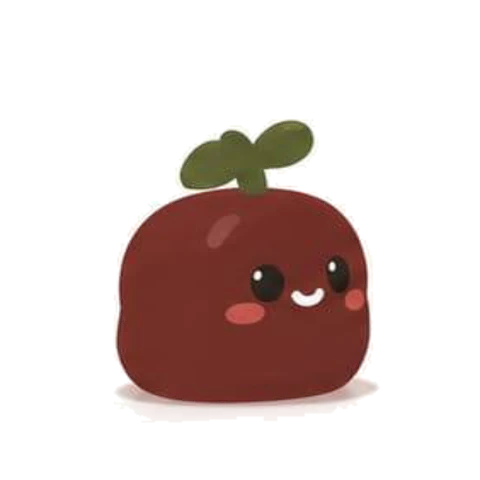
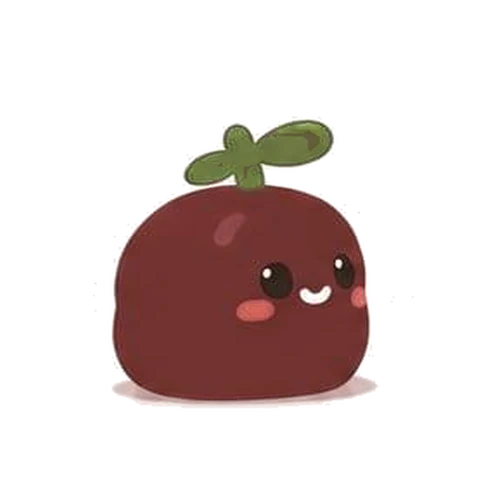
Blocky blinks and glances in his true colours, and eases out of a glance
- New blink and glance frames from the recoloured artwork, keyed off their
  white backgrounds, fitted onto the standing pose's body and colour-matched
  to it (body and leaf separately; eyes, mouth and cheeks as drawn).
- Every pose cleaned of the white it was cut from, so dark mode has no white
  halo or ground plate. Over white they're unchanged (within 1/255).
- Glances crossfade into and out of the standing pose, in the app and on the
  site, instead of snapping; blinks stay a hard cut. The first step waits for
  its fade, so no frame ever starts over a half-faded one.
- Website: the bar's wordmark stays hidden while the hero's own wordmark is on
  screen, and rises in once it scrolls away. Replaced images carry a version
  so returning visitors don't keep the old ones.

diff --git a/apps/mobile/components/Mascot.tsx b/apps/mobile/components/Mascot.tsx
@@ -1,5 +1,5 @@
-import { useEffect, useState } from 'react';
-import { Image, View, type StyleProp, type ViewStyle } from 'react-native';
+import { useEffect, useRef, useState } from 'react';
+import { Animated, Image, View, type StyleProp, type ViewStyle } from 'react-native';
 
 export type MascotPose =
   | 'neutral'
@@ -40,6 +40,21 @@ type Frame = { pose: MascotPose } | { turn: 0 | 1 | 2; mirrored: boolean };
 const STEP_MS = 90;
 const HOLD_MS = 1800;
 const BLINK_MS = 260;
+/**
+ * Crossfades. The glance frames are drawn rounder than the standing pose, so a
+ * hard swap between the two reads as a snap; easing into and out of the turn
+ * hides it. Steps within the turn fade quicker. Blinks stay a hard cut — a
+ * blink that fades looks like a flicker.
+ */
+const TURN_IN_OUT_MS = 160;
+const TURN_STEP_MS = 70;
+
+/** Layers bottom to top: the pose, its blink, then the three turn frames. */
+const LAYER_COUNT = 5;
+function layerOf(frame: Frame): number {
+  if ('turn' in frame) return 2 + frame.turn;
+  return frame.pose === 'closedEyes' ? 1 : 0;
+}
 
 /**
  * The mascot, hand-drawn (assets/blocky*.png, background keyed out) and shown
@@ -86,7 +101,10 @@ export function Mascot({
         const [next, ...rest] = queue;
         if (!next) return then();
         setFrame(next);
-        later(STEP_MS, () => run(rest, then));
+        // Stepping off the standing pose crossfades for longer than a step:
+        // wait it out, or the next frame starts over a half-faded one.
+        const fromPose = queue === steps;
+        later(fromPose ? TURN_IN_OUT_MS : STEP_MS, () => run(rest, then));
       };
       run(steps, () => later(HOLD_MS, () => run(back, schedule)));
     };
@@ -111,6 +129,43 @@ export function Mascot({
     };
   }, [pose, animated]);
 
+  // One opacity per layer, and which layer is showing now.
+  const opacities = useRef(Array.from({ length: LAYER_COUNT }, (_, i) => new Animated.Value(i === 0 ? 1 : 0))).current;
+  const showing = useRef(0);
+  // The direction of the last glance, kept while it fades out: the frame
+  // state is already back on the pose by then, and the fading frame must not
+  // flip mid-fade.
+  const lastMirrored = useRef(false);
+  if ('turn' in frame) lastMirrored.current = frame.mirrored;
+  const mirrored = lastMirrored.current;
+
+  useEffect(() => {
+    const prev = showing.current;
+    const next = layerOf(frame);
+    if (next === prev) return;
+    showing.current = next;
+
+    if (prev <= 1 && next <= 1) {
+      // A blink: a hard cut.
+      opacities[prev]!.setValue(0);
+      opacities[next]!.setValue(1);
+      return;
+    }
+
+    const duration = prev <= 1 || next <= 1 ? TURN_IN_OUT_MS : TURN_STEP_MS;
+    if (next > prev) {
+      // The new frame is on top: fade it in over the old, then drop the old.
+      opacities[next]!.setValue(0);
+      Animated.timing(opacities[next]!, { toValue: 1, duration, useNativeDriver: true }).start(({ finished }) => {
+        if (finished && showing.current !== prev) opacities[prev]!.setValue(0);
+      });
+    } else {
+      // The new frame is underneath: show it, and fade the old one off it.
+      opacities[next]!.setValue(1);
+      Animated.timing(opacities[prev]!, { toValue: 0, duration, useNativeDriver: true }).start();
+    }
+  }, [frame, opacities]);
+
   const box = [{ width: size, height: size }, style];
   // An explicit size on every layer: Android's image view doesn't reliably size
   // an absolutely-positioned image from its insets alone.
@@ -124,34 +179,20 @@ export function Mascot({
     );
   }
 
-  const shown = (candidate: Frame) =>
-    'pose' in frame && 'pose' in candidate
-      ? frame.pose === candidate.pose
-      : 'turn' in frame && 'turn' in candidate && frame.turn === candidate.turn;
-  const mirrored = 'turn' in frame && frame.mirrored;
-
   return (
     <View style={box}>
-      {([pose, 'closedEyes'] as const).map((p) => (
-        <Image
-          key={p}
-          source={POSES[p]}
-          style={[layer, { opacity: shown({ pose: p }) ? 1 : 0 }]}
-          resizeMode="contain"
-        />
+      {([pose, 'closedEyes'] as const).map((p, i) => (
+        <Animated.Image key={p} source={POSES[p]} style={[layer, { opacity: opacities[i] }]} resizeMode="contain" />
       ))}
       {TURN.map((source, i) => (
-        <Image
+        <Animated.Image
           key={`turn${i}`}
           source={source}
-          style={[
-            layer,
-            { opacity: shown({ turn: i as 0 | 1 | 2, mirrored }) ? 1 : 0 },
-            mirrored ? { transform: [{ scaleX: -1 }] } : null,
-          ]}
+          style={[layer, { opacity: opacities[2 + i] }, mirrored ? { transform: [{ scaleX: -1 }] } : null]}
           resizeMode="contain"
         />
       ))}
     </View>
   );
 }
+

diff --git a/apps/web/public/app.js b/apps/web/public/app.js
@@ -16,6 +16,16 @@
   window.addEventListener('scroll', onScroll, { passive: true });
   onScroll();
 
+  // The bar's wordmark appears once the hero's own wordmark is out of sight.
+  var heroStage = document.querySelector('.hero-stage');
+  if (heroStage && 'IntersectionObserver' in window) {
+    new IntersectionObserver(function (entries) {
+      nav.classList.toggle('show-brand', !entries[0].isIntersecting);
+    }, { rootMargin: '-' + nav.offsetHeight + 'px 0px 0px 0px' }).observe(heroStage);
+  } else {
+    nav.classList.add('show-brand');
+  }
+
   var year = document.querySelector('[data-year]');
   if (year) year.textContent = String(new Date().getFullYear());
 
@@ -32,11 +42,50 @@
     var base = root.dataset.poseBase || 'neutral';
     var timer = null;
 
+    var current = root.querySelector('.pose.is-on');
+    var order = Array.prototype.slice.call(root.querySelectorAll('[data-pose]'));
+
+    function setOn(img, on, mirrored) {
+      img.classList.toggle('is-on', on);
+      if (on) img.classList.toggle('is-mirrored', !!mirrored);
+    }
+
+    // The glance frames are drawn rounder than the standing pose, so a hard
+    // swap between them reads as a snap: anything into or out of a turn frame
+    // crossfades. Blinks and the intro's poses stay hard cuts.
     function show(name, mirrored) {
+      var next = poses[name];
+      if (!next) return;
+      var prev = current;
+      current = next;
+      if (prev === next) return setOn(next, true, mirrored);
+
+      var turn = function (img) { return img && /^turn/.test(img.dataset.pose); };
+      var fade = !reduced && prev && (turn(prev) || turn(next)) ? (turn(prev) && turn(next) ? 70 : 160) : 0;
+
       Object.keys(poses).forEach(function (key) {
-        poses[key].classList.toggle('is-on', key === name);
-        poses[key].classList.toggle('is-mirrored', key === name && !!mirrored);
+        var img = poses[key];
+        if (img !== prev && img !== next) { img.style.transition = 'none'; setOn(img, false); }
       });
+      if (!fade || !prev) {
+        prev && (prev.style.transition = 'none', setOn(prev, false));
+        next.style.transition = 'none';
+        return setOn(next, true, mirrored);
+      }
+      if (order.indexOf(next) > order.indexOf(prev)) {
+        // On top: fade the new frame in over the old, then drop the old.
+        next.style.transition = 'opacity ' + fade + 'ms linear';
+        setOn(next, true, mirrored);
+        window.setTimeout(function () {
+          if (current !== prev) { prev.style.transition = 'none'; setOn(prev, false); }
+        }, fade);
+      } else {
+        // Underneath: show the new frame, and fade the old one off it.
+        next.style.transition = 'none';
+        setOn(next, true, mirrored);
+        prev.style.transition = 'opacity ' + fade + 'ms linear';
+        prev.classList.remove('is-on');
+      }
     }
 
     function later(ms, fn) { timer = window.setTimeout(fn, ms); }
@@ -45,14 +94,15 @@
       if (!frames.length) return then();
       var frame = frames[0];
       show(frame[0], frame[1]);
-      later(90, function () { run(frames.slice(1), then); });
+      // A frame that crossfaded in (frame[2]) holds until its fade is done.
+      later(frame[2] || 90, function () { run(frames.slice(1), then); });
     }
 
     function schedule() {
       later(2400 + Math.random() * 2600, function () {
         if (base === 'neutral' && poses.turn1 && Math.random() < 0.3) {
           var m = Math.random() < 0.5;
-          run([['turn1', m], ['turn2', m], ['turn3', m]], function () {
+          run([['turn1', m, 160], ['turn2', m], ['turn3', m]], function () {
             later(1800, function () { run([['turn2', m], ['turn1', m], [base]], schedule); });
           });
         } else {

diff --git a/apps/web/public/index.html b/apps/web/public/index.html
@@ -25,7 +25,7 @@
   <script src="/config.js"></script>
   <script src="/app.js" defer></script>
 </head>
-<body>
+<body class="has-hero">
   <a class="skip" href="#main">Skip to content</a>
 
   <header class="nav" id="nav">
@@ -53,13 +53,13 @@
             <span class="drop-shadow"></span>
             <div class="mascot-body">
               <img class="pose" data-pose="neutral" src="/img/neutral.webp" alt="" width="480" height="480">
-              <img class="pose is-on" data-pose="closed" src="/img/closed.webp" alt="" width="480" height="480">
+              <img class="pose is-on" data-pose="closed" src="/img/closed.webp?v=2" alt="" width="480" height="480">
               <img class="pose" data-pose="happy" src="/img/happy.webp" alt="" width="480" height="480">
               <img class="pose" data-pose="left" src="/img/left.webp" alt="" width="480" height="480">
               <img class="pose" data-pose="right" src="/img/right.webp" alt="" width="480" height="480">
-              <img class="pose" data-pose="turn1" src="/img/turn1.webp" alt="" width="480" height="480">
-              <img class="pose" data-pose="turn2" src="/img/turn2.webp" alt="" width="480" height="480">
-              <img class="pose" data-pose="turn3" src="/img/turn3.webp" alt="" width="480" height="480">
+              <img class="pose" data-pose="turn1" src="/img/turn1.webp?v=2" alt="" width="480" height="480">
+              <img class="pose" data-pose="turn2" src="/img/turn2.webp?v=2" alt="" width="480" height="480">
+              <img class="pose" data-pose="turn3" src="/img/turn3.webp?v=2" alt="" width="480" height="480">
             </div>
           </div>
           <div class="platform"><span>B</span><span>l</span><span>o</span><span>c</span><span>k</span><span>y</span></div>
@@ -241,7 +241,7 @@
         <div class="mascot mascot-final" data-mascot data-idle data-pose-base="happy">
           <div class="mascot-body">
             <img class="pose is-on" data-pose="happy" src="/img/happy.webp" alt="" width="480" height="480" loading="lazy">
-            <img class="pose" data-pose="closed" src="/img/closed.webp" alt="" width="480" height="480" loading="lazy">
+            <img class="pose" data-pose="closed" src="/img/closed.webp?v=2" alt="" width="480" height="480" loading="lazy">
           </div>
         </div>
         <h2 id="final-title">Blocky's saving you a spot.</h2>

diff --git a/apps/web/public/styles.css b/apps/web/public/styles.css
@@ -166,6 +166,14 @@ section { padding: 96px 0; }
   font-weight: 800; font-size: 22px; letter-spacing: -0.02em; color: var(--brand); text-decoration: none;
 }
 .wordmark img { width: 36px; height: 36px; margin-top: -4px; }
+/* On the home page the big Blocky already says who we are, so the bar's
+   wordmark waits until he has scrolled away, then rises in. */
+.js .has-hero .nav .wordmark {
+  opacity: 0; transform: translateY(8px); pointer-events: none;
+  transition: opacity 260ms var(--ease), transform 260ms var(--ease);
+}
+.js .has-hero .nav.show-brand .wordmark { opacity: 1; transform: none; pointer-events: auto; }
+@media (prefers-reduced-motion: reduce) { .js .has-hero .nav .wordmark { transition: none; } }
 .wordmark.small { font-size: 18px; }
 .wordmark.small img { width: 26px; height: 26px; }
 .nav-links { display: flex; gap: 28px; margin-left: auto; }
